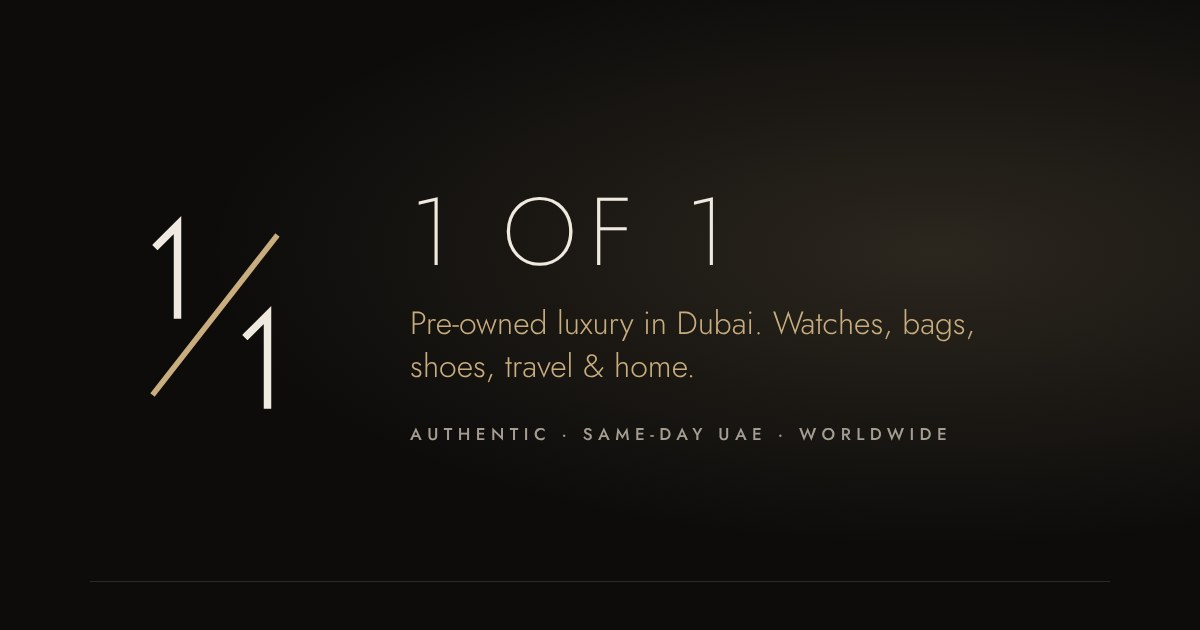
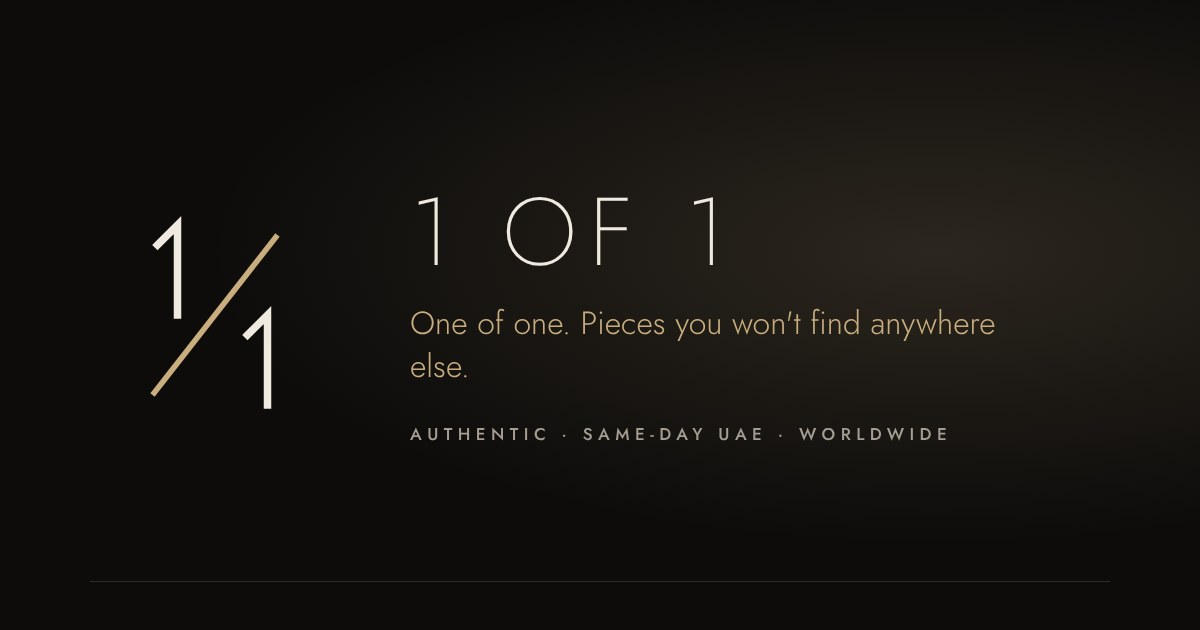
Copy: drop pre-owned wording, lead with 1 of 1 (pieces you won't find anywhere else)
Claude-Session: https://claude.ai/code/session_01DAxsXYUVyQaZK1WAkHMxyn

Changed region(s): [[0.3392, 0.4825, 0.8325, 0.5429], [0.3392, 0.573, 0.5858, 0.6032]]

diff --git a/src/seo.js b/src/seo.js
@@ -15,14 +15,14 @@ const PRIVATE = new Set(["cart", "login", "admin", "404"]);
 
 // Words people actually type, per category (used in titles and descriptions).
 const CAT_SEO = {
-  watches: { h: "Pre-Owned Luxury Watches in Dubai", k: "pre-owned Rolex, Patek Philippe, Audemars Piguet and Richard Mille with box and papers" },
-  bags: { h: "Pre-Owned Designer Bags in Dubai", k: "preloved Hermès Birkin and Kelly, Chanel, Louis Vuitton and Dior handbags" },
-  shoes: { h: "Pre-Owned Designer Shoes & Sneakers in Dubai", k: "designer heels, loafers and sneakers from Louboutin, Dior, Hermès and Gucci" },
-  travel: { h: "Luxury Travel Bags & Luggage in Dubai", k: "pre-owned Louis Vuitton Keepall, Rimowa, Goyard luggage, duffles and backpacks" },
-  jewelry: { h: "Pre-Owned Fine Jewellery in Dubai", k: "Cartier Love and Juste un Clou, Van Cleef & Arpels Alhambra and Bulgari gold jewellery" },
-  eyewear: { h: "Designer Sunglasses in Dubai", k: "pre-owned designer sunglasses with case" },
-  slg: { h: "Designer Wallets & Card Holders in Dubai", k: "pre-owned designer wallets, card holders and small leather goods" },
-  clothing: { h: "Pre-Owned Designer Clothing in Dubai", k: "preloved designer coats, jackets and ready-to-wear" },
+  watches: { h: "Luxury Watches in Dubai", k: "one-of-one Rolex, Patek Philippe, Audemars Piguet and Richard Mille with box and papers" },
+  bags: { h: "Designer Bags in Dubai", k: "one-of-one Hermès Birkin and Kelly, Chanel, Louis Vuitton and Dior handbags" },
+  shoes: { h: "Designer Shoes & Sneakers in Dubai", k: "designer heels, loafers and sneakers from Louboutin, Dior, Hermès and Gucci" },
+  travel: { h: "Luxury Travel Bags & Luggage in Dubai", k: "Louis Vuitton Keepall, Rimowa, Goyard luggage, duffles and backpacks" },
+  jewelry: { h: "Fine Jewellery in Dubai", k: "Cartier Love and Juste un Clou, Van Cleef & Arpels Alhambra and Bulgari gold jewellery" },
+  eyewear: { h: "Designer Sunglasses in Dubai", k: "designer sunglasses with case" },
+  slg: { h: "Designer Wallets & Card Holders in Dubai", k: "designer wallets, card holders and small leather goods" },
+  clothing: { h: "Designer Clothing in Dubai", k: "designer coats, jackets and ready-to-wear" },
   acc: { h: "Designer Belts & Scarves in Dubai", k: "Hermès belts, silk carrés and designer scarves" },
   home: { h: "Luxury Home Décor in Dubai", k: "Hermès blankets and tableware, Baccarat and Lalique crystal, Fornasetti" }
 };
@@ -71,7 +71,7 @@ const ORG = {
   url: SITE + "/",
   logo: SITE + "/favicon-512.png",
   image: OG_IMAGE,
-  description: "Authentic pre-owned luxury in Dubai: watches, designer bags, shoes, jewellery, travel and home, plus F1 Paddock Club tickets for the Abu Dhabi Grand Prix. One-of-one pieces, same-day UAE delivery, worldwide shipping.",
+  description: "One-of-one luxury in Dubai you won't find anywhere else: watches, designer bags, shoes, jewellery, travel and home, plus F1 Paddock Club tickets for the Abu Dhabi Grand Prix. One-of-one pieces, same-day UAE delivery, worldwide shipping.",
   email: "info@1of1.ae",
   telephone: "+971562422121",
   areaServed: [{ "@type": "Country", name: "United Arab Emirates" }, "Worldwide"],
@@ -88,8 +88,8 @@ async function seoFor(url, request, env) {
   if (key === "home") {
     const { cats } = await catalog(request, env);
     return {
-      title: "1 OF 1 | Pre-Owned Luxury Watches & Designer Bags in Dubai",
-      desc: "Shop authentic 1 of 1 pre-owned luxury in Dubai: Rolex, Hermès, Chanel, Louis Vuitton and more, plus F1 Paddock Club tickets for Abu Dhabi. Best-condition pieces, same-day UAE delivery, worldwide shipping.",
+      title: "1 OF 1 | One-of-One Luxury Watches & Designer Bags in Dubai",
+      desc: "1 of 1 luxury in Dubai: Rolex, Hermès, Chanel, Louis Vuitton and more, pieces you won't find anywhere else. Best quality, same-day UAE delivery, worldwide shipping. Plus F1 Paddock Club tickets.",
       canonical: SITE + "/",
       ld: [
         ORG,
@@ -106,11 +106,11 @@ async function seoFor(url, request, env) {
     const { cats } = await catalog(request, env);
     const c = cats.find(x => x.id === id);
     if (!c) return { robots: "noindex, follow" };
-    const s = CAT_SEO[c.id] || { h: `Pre-Owned ${c.title} in Dubai`, k: `pre-owned designer ${c.title.toLowerCase()}` };
+    const s = CAT_SEO[c.id] || { h: `Luxury ${c.title} in Dubai`, k: `one-of-one designer ${c.title.toLowerCase()}` };
     const canon = `${SITE}/category?c=${c.id}`;
     return {
       title: `${s.h} | ${BRAND}`,
-      desc: `Shop ${s.k}. Authentic 1 of 1 pieces in the best condition${c.items.length ? `, including ${brandsOf(c.items).join(", ")}` : ""}. Same-day UAE delivery, worldwide shipping.`,
+      desc: `Shop ${s.k}. 1 of 1 pieces in the best quality, never found anywhere else${c.items.length ? `, including ${brandsOf(c.items).join(", ")}` : ""}. Same-day UAE delivery, worldwide shipping.`,
       canonical: canon,
       ld: [
         { "@type": "CollectionPage", name: s.h, url: canon, isPartOf: { "@id": SITE + "/#site" } },
@@ -131,14 +131,14 @@ async function seoFor(url, request, env) {
     const name = `${it.brand} ${it.name}`;
     const img = it.image ? abs(it.image) : OG_IMAGE;
     return {
-      title: `${name} | Pre-Owned ${it.cat.title} Dubai | ${BRAND}`,
-      desc: `Authentic pre-owned ${name}, condition: ${it.condition || "excellent"}. ${it.sold ? "Sold, ask us to source another." : aed(it.price) + "."} 1 of 1 piece, checked by hand. Same-day UAE delivery, worldwide shipping.`,
+      title: `${name} | 1 of 1 ${it.cat.title} Dubai | ${BRAND}`,
+      desc: `${name}, a 1 of 1 piece you won't find anywhere else. Condition: ${it.condition || "excellent"}. ${it.sold ? "Sold, ask us to source another." : aed(it.price) + "."} Checked by hand. Same-day UAE delivery, worldwide shipping.`,
       canonical: canon,
       image: img,
       type: "product",
       ld: [
         { "@type": "Product", name, brand: { "@type": "Brand", name: it.brand }, category: it.cat.title, sku: it.id,
-          description: `Pre-owned ${name}. Condition: ${it.condition || "excellent"}. Checked by hand before it ships.`,
+          description: `${name}, a 1 of 1 piece. Condition: ${it.condition || "excellent"}. Checked by hand before it ships.`,
           ...(it.image ? { image: [img] } : {}),
           offers: { "@type": "Offer", url: canon, priceCurrency: "AED", price: it.price,
             availability: it.sold ? "https://schema.org/SoldOut" : "https://schema.org/InStock",

diff --git a/index.html b/index.html
@@ -3,8 +3,8 @@
 <head>
 <meta charset="utf-8">
 <meta name="viewport" content="width=device-width,initial-scale=1,viewport-fit=cover">
-<title>1 OF 1 · Pre-loved Luxury, Dubai</title>
-<meta name="description" content="1 OF 1 — authenticated pre-loved watches, handbags and jewellery from Dubai. Same-day delivery in the UAE, worldwide within a week.">
+<title>1 OF 1 · One-of-One Luxury, Dubai</title>
+<meta name="description" content="1 OF 1 — one-of-one luxury pieces you won't find anywhere else. Watches, bags, shoes, jewellery, travel and home. Same-day delivery in the UAE, worldwide within a week.">
[1 lines of base64/hex data omitted]
 <link rel="icon" type="image/png" sizes="32x32" href="/favicon-32.png?v=4">
 <link rel="shortcut icon" href="/favicon.ico?v=4">
@@ -24,7 +24,7 @@
 <div class="gut">
   <div class="intro">
     <h1>Find anything <em>you wish you had.</em></h1>
-    <p>Authentic pre-owned watches, designer bags, shoes, travel and home pieces from the houses that matter. Can't see it here? Message us, we'll find it.</p>
+    <p>Every piece here is a 1 of 1. You won't find it anywhere else. Watches, bags, shoes, travel and home from the houses that matter. Can't see it here? Message us, we'll find it.</p>
   </div>
 </div>
 <main class="gut" id="main"><p class="muted">Loading pieces…</p></main>
@@ -36,10 +36,10 @@
 <section class="gut about" id="about">
   <div class="about-copy">
     <span class="t-k">About 1 OF 1</span>
-    <h2>Pre-owned luxury in Dubai. <em>Every piece a 1 of 1.</em></h2>
-    <p>1 OF 1 is an online store for authentic pre-owned luxury in the UAE. We sell pre-owned Rolex, Patek Philippe and Audemars Piguet watches, preloved Hermès, Chanel and Louis Vuitton bags, designer shoes and sneakers, travel bags and luggage, fine jewellery, clothing and luxury home décor. We also offer pre-booking for F1 tickets: <a href="/paddock" style="color:var(--champagne)">Paddock Club and hospitality at the Abu Dhabi Grand Prix 2026</a>.</p>
-    <p>Every item is a one-of-one piece in the best condition we can find. Each one is checked by hand before it ships and graded honestly. Delivery is same-day across Dubai, Abu Dhabi, Sharjah and the rest of the UAE, and worldwide within a week. Can't see what you want? Show us the piece and we'll find it.</p>
-    <p class="ar" lang="ar" dir="rtl">ساعات وحقائب ماركات فاخرة مستعملة وأصلية في دبي، وتذاكر الفورمولا 1 وبادوك كلوب لسباق جائزة أبوظبي الكبرى. توصيل في نفس اليوم داخل الإمارات وشحن لجميع دول العالم.</p>
+    <h2>Every piece a 1 of 1. <em>Find what you wish you had.</em></h2>
+    <p>1 OF 1 is a Dubai luxury store where every product is a one-of-one piece you won't find anywhere else. We sell Rolex, Patek Philippe and Audemars Piguet watches, Hermès, Chanel and Louis Vuitton bags, designer shoes and sneakers, travel bags and luggage, fine jewellery, clothing and luxury home décor. We also offer pre-booking for F1 tickets: <a href="/paddock" style="color:var(--champagne)">Paddock Club and hospitality at the Abu Dhabi Grand Prix 2026</a>.</p>
+    <p>Every item is one of one, in the best quality we can find. Each one is checked by hand before it ships and graded honestly. Delivery is same-day across Dubai, Abu Dhabi, Sharjah and the rest of the UAE, and worldwide within a week. Can't see what you want? Show us the piece and we'll find it.</p>
+    <p class="ar" lang="ar" dir="rtl">ساعات وحقائب ماركات فاخرة أصلية وقطع فريدة لن تجدها في أي مكان آخر في دبي، وتذاكر الفورمولا 1 وبادوك كلوب لسباق جائزة أبوظبي الكبرى. توصيل في نفس اليوم داخل الإمارات وشحن لجميع دول العالم.</p>
   </div>
   <div class="faq">
     <h3>Questions</h3>

diff --git a/category.html b/category.html
@@ -4,7 +4,7 @@
 <meta charset="utf-8">
 <meta name="viewport" content="width=device-width,initial-scale=1,viewport-fit=cover">
 <title>1 OF 1 · Collection</title>
-<meta name="description" content="1 OF 1 — authenticated pre-loved watches, handbags and jewellery from Dubai. Same-day delivery in the UAE, worldwide within a week.">
+<meta name="description" content="1 OF 1 — one-of-one luxury pieces you won't find anywhere else. Watches, bags, shoes, jewellery, travel and home. Same-day delivery in the UAE, worldwide within a week.">
[1 lines of base64/hex data omitted]
 <link rel="icon" type="image/png" sizes="32x32" href="/favicon-32.png?v=4">
 <link rel="shortcut icon" href="/favicon.ico?v=4">

diff --git a/cart.html b/cart.html
@@ -4,7 +4,7 @@
 <meta charset="utf-8">
 <meta name="viewport" content="width=device-width,initial-scale=1,viewport-fit=cover">
 <title>1 OF 1 · Your bag</title>
-<meta name="description" content="1 OF 1 — authenticated pre-loved watches, handbags and jewellery from Dubai. Same-day delivery in the UAE, worldwide within a week.">
+<meta name="description" content="1 OF 1 — one-of-one luxury pieces you won't find anywhere else. Watches, bags, shoes, jewellery, travel and home. Same-day delivery in the UAE, worldwide within a week.">
[1 lines of base64/hex data omitted]
 <link rel="icon" type="image/png" sizes="32x32" href="/favicon-32.png?v=4">
 <link rel="shortcut icon" href="/favicon.ico?v=4">

diff --git a/login.html b/login.html
@@ -4,7 +4,7 @@
 <meta charset="utf-8">
 <meta name="viewport" content="width=device-width,initial-scale=1,viewport-fit=cover">
 <title>1 OF 1 · Sign in</title>
-<meta name="description" content="1 OF 1 — authenticated pre-loved watches, handbags and jewellery from Dubai. Same-day delivery in the UAE, worldwide within a week.">
+<meta name="description" content="1 OF 1 — one-of-one luxury pieces you won't find anywhere else. Watches, bags, shoes, jewellery, travel and home. Same-day delivery in the UAE, worldwide within a week.">
[1 lines of base64/hex data omitted]
 <link rel="icon" type="image/png" sizes="32x32" href="/favicon-32.png?v=4">
 <link rel="shortcut icon" href="/favicon.ico?v=4">

diff --git a/admin.html b/admin.html
@@ -4,7 +4,7 @@
 <meta charset="utf-8">
 <meta name="viewport" content="width=device-width,initial-scale=1,viewport-fit=cover">
 <title>1 OF 1 · Admin</title>
-<meta name="description" content="1 OF 1 — authenticated pre-loved watches, handbags and jewellery from Dubai. Same-day delivery in the UAE, worldwide within a week.">
+<meta name="description" content="1 OF 1 — one-of-one luxury pieces you won't find anywhere else. Watches, bags, shoes, jewellery, travel and home. Same-day delivery in the UAE, worldwide within a week.">
[1 lines of base64/hex data omitted]
 <link rel="icon" type="image/png" sizes="32x32" href="/favicon-32.png?v=4">
 <link rel="shortcut icon" href="/favicon.ico?v=4">

diff --git a/product.html b/product.html
@@ -4,7 +4,7 @@
 <meta charset="utf-8">
 <meta name="viewport" content="width=device-width,initial-scale=1,viewport-fit=cover">
 <title>1 OF 1 · Piece</title>
-<meta name="description" content="1 OF 1 — authenticated pre-loved watches, handbags and jewellery from Dubai. Same-day delivery in the UAE, worldwide within a week.">
+<meta name="description" content="1 OF 1 — one-of-one luxury pieces you won't find anywhere else. Watches, bags, shoes, jewellery, travel and home. Same-day delivery in the UAE, worldwide within a week.">
[1 lines of base64/hex data omitted]
 <link rel="icon" type="image/png" sizes="32x32" href="/favicon-32.png?v=4">
 <link rel="shortcut icon" href="/favicon.ico?v=4">

diff --git a/assets/receipt.js b/assets/receipt.js
@@ -52,7 +52,7 @@ async function downloadReceipt(o, btn) {
     txt("1 OF 1", L, y, { s: 26, b: true });
     txt("RECEIPT", R, y - 8, { s: 11, b: true, a: "right", c: gold });
     txt("Order #" + o.id, R, y + 8, { s: 10, a: "right" });
-    y += 18; txt("Pre-loved luxury  ·  1of1.ae", L, y, { s: 9, c: dim });
+    y += 18; txt("One of one  ·  1of1.ae", L, y, { s: 9, c: dim });
     y += 24; rule(y);
 
     // meta
